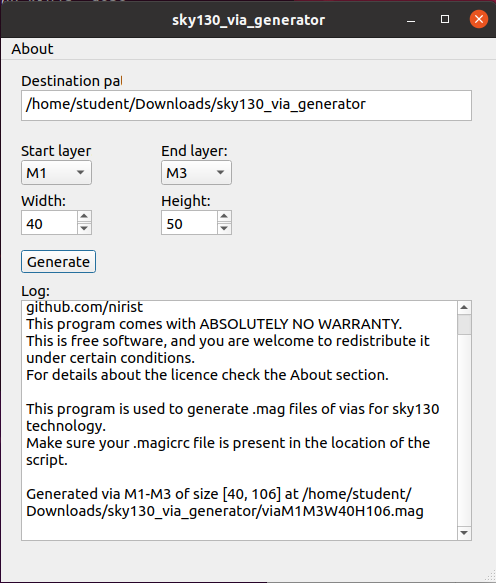
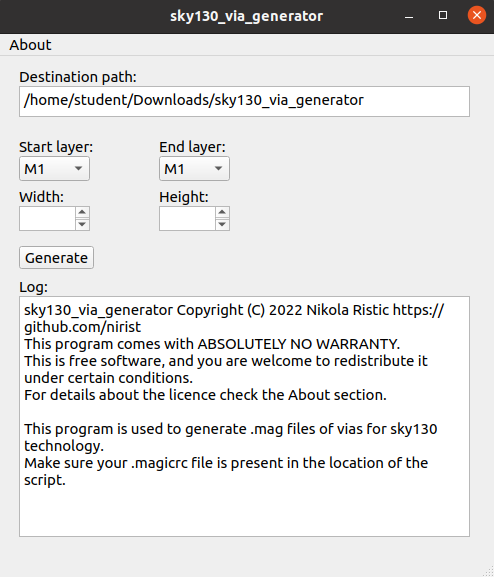
Fixed UI text and added new UI image

diff --git a/sky130_via_generator.py b/sky130_via_generator.py
@@ -232,7 +232,7 @@ class Ui_MainWindow(object):
         self.generateButton.setGeometry(QtCore.QRect(20, 190, 75, 23))
         self.generateButton.setObjectName("generateButton")
         self.label = QtWidgets.QLabel(self.centralwidget)
-        self.label.setGeometry(QtCore.QRect(20, 80, 71, 21))
+        self.label.setGeometry(QtCore.QRect(20, 80, 80, 21))
         self.label.setObjectName("label")
         self.log = QtWidgets.QTextBrowser(self.centralwidget)
         self.log.setGeometry(QtCore.QRect(20, 240, 451, 241))
@@ -241,7 +241,7 @@ class Ui_MainWindow(object):
         self.label_5.setGeometry(QtCore.QRect(20, 220, 47, 20))
         self.label_5.setObjectName("label_5")
         self.label_6 = QtWidgets.QLabel(self.centralwidget)
-        self.label_6.setGeometry(QtCore.QRect(20, 10, 101, 21))
+        self.label_6.setGeometry(QtCore.QRect(20, 10, 150, 21))
         self.label_6.setObjectName("label_6")
         MainWindow.setCentralWidget(self.centralwidget)
         self.menubar = QtWidgets.QMenuBar(MainWindow)
